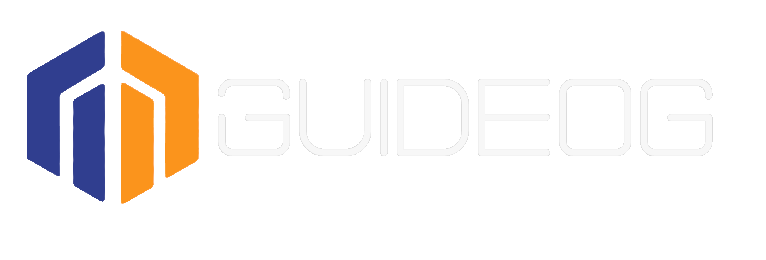
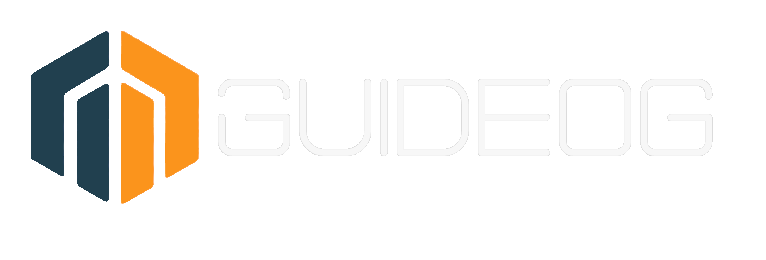
updated styling & code layout

Changed region(s): [[0.03, 0.1231, 0.1501, 0.7692]]

diff --git a/index.html b/index.html
@@ -35,10 +35,10 @@
 							<a href="#explore" class="nav-link" id="explore-btn">Explore</a>
 						</li>
 						<li class-"nav-item">
-							<a href="main.html" class="nav-link">FAQ</a>
+							<a href="#FAQ" class="nav-link">FAQ</a>
 						</li>
 						<li class-"nav-item">
-							<a href="#contact" class="nav-link">Contact</a>
+							<a href="main.html" class="nav-link">Main</a>
 						</li>
 						<li>
 							<button class="nav-link btn btn-sm btn-login text-large py-1 ml-4 mt-1 d-none d-sm-block text-white" data-toggle="modal" data-target="#loginModal">Log In</button>
@@ -85,7 +85,7 @@
 							<h1 class="display-4">Help others <strong>create</strong> comprehensive and in-depth <strong>guides</strong></h1>
 							<div class="d-flex">
 								<div class="p-4 mt-4 align-self-start">
-									<i class="fas fa-archive fa-2x"></i>	
+									<i class="fas fa-archive fa-2x text-orange"></i>	
 								</div>
 								<div class="p-4 mt-4 align-self-end">
 									Explore a vast repository of guides which have been found to be the most valuable for their subject, rated by a vast (at this point, actually, not so vast) userbase!	
@@ -93,7 +93,7 @@
 							</div>
 							<div class="d-flex">
 								<div class="p-4 align-self-start">
-									<i class="fas fa-comment fa-2x"></i>	
+									<i class="fas fa-comment fa-2x text-orange"></i>	
 								</div>
 								<div class="p-4 align-self-end">
 									Contribute to existing <a href="#" class="header-link">guides</a>, branch onto them with new <a href="#" class="header-link">steps</a>, and submit new additions to add your own knowledge of your most favorite subjects.	
@@ -101,7 +101,7 @@
 							</div>
 							<div class="d-flex">
 								<div class="p-4 align-self-start">
-									<i class="fas fa-heart fa-2x"></i>	
+									<i class="fas fa-heart fa-2x text-orange"></i>	
 								</div>
 								<div class="p-4 align-self-end">
 									Promote other user's content to help link together incredible guides in the best order possible.	
@@ -131,7 +131,7 @@
 						</div>
 					</div>
 					<div class="row">
-						<nav id="learn-btn" class="col text-center d-none d-sm-block">
+						<nav id="learn-btn" class="col text-center">
 							<a href="#explore" class="btn btn-block btn-outline-light nav-link">Learn More</a>
 						</nav>
 					</div>
@@ -139,13 +139,7 @@
 				
 				<!-- EXPLORE -->
 				<div class="container" id="explore">
-					<div class="row">
-						<div class="col-4 offset-4 text-center">
-							<h1 class="display-4">Explore</h1>
-						</div>
-					</div>
 				</div>
-			</div>
 		</header>
 
 		<script src="http://code.jquery.com/jquery-3.3.1.min.js" integrity="sha256-FgpCb/KJQlLNfOu91ta32o/NMZxltwRo8QtmkMRdAu8="

diff --git a/main.html b/main.html
@@ -5,21 +5,27 @@
 		<meta charset="UTF-8">
 		<meta name="viewport" content="width=device-width, initial-scale=1.0">
 		<meta http-equiv="X-UA-Compatible" content="ie=edge">
-
+		
 		<link rel="stylesheet" href="https://cdnjs.cloudflare.com/ajax/libs/font-awesome/6.2.1/css/all.min.css">
 		<link rel="stylesheet" href="https://stackpath.bootstrapcdn.com/bootstrap/4.1.1/css/bootstrap.min.css" integrity="sha384-WskhaSGFgHYWDcbwN70/dfYBj47jz9qbsMId/iRN3ewGhXQFZCSftd1LZCfmhktB"
 		crossorigin="anonymous">
-		<link rel="stylesheet" href="css/styles.css">
+		<link rel="stylesheet" href="css/main-styles.css">
 		<link rel="icon" href="imgs/guideog-l3-icon-alpha.png">
 
 		<title>Guideog</title>
 	</head>
 
-	<body class="bg-dark">
+	<body class="text-light">
+		
+
 		<script src="http://code.jquery.com/jquery-3.3.1.min.js" integrity="sha256-FgpCb/KJQlLNfOu91ta32o/NMZxltwRo8QtmkMRdAu8="
 			crossorigin="anonymous"></script>
 		<script src="https://cdnjs.cloudflare.com/ajax/libs/popper.js/1.14.3/umd/popper.min.js" integrity="sha384-ZMP7rVo3mIykV+2+9J3UJ46jBk0WLaUAdn689aCwoqbBJiSnjAK/l8WvCWPIPm49"
 			crossorigin="anonymous"></script>
 		<script src="https://stackpath.bootstrapcdn.com/bootstrap/4.1.1/js/bootstrap.min.js" integrity="sha384-smHYKdLADwkXOn1EmN1qk/HfnUcbVRZyYmZ4qpPea6sjB/pTJ0euyQp0Mk8ck+5T"
 			crossorigin="anonymous"></script>
+		<script src="js/app.js"></script>
+		<script src="js/scripts.js"></script>
 	</body>
+
+</html>

diff --git a/css/styles.css b/css/styles.css
@@ -1,9 +1,18 @@
 body {
 	color: #fff;
+	overflow-x: hidden;
+}
+
+@media (max-width:435px) {
+	body { 
+		overflow-x: visible;
+	}
 }
 
 .navbar {
-	background: rgba(0,0,0,0.65);
+	/* background: rgba(10,29,31,0.65); */
+	background: rgba(13,20,31,.8);
+
 	border-bottom: #915110 solid 1px;
 }
 
@@ -25,13 +34,17 @@ body {
 	top: 0;
 	left: 0;
 	width: 100%;
-	min-height:210%;
+	min-height:210vh;
 	background: rgba(0,0,0,1);
 	/* border-bottom: #915110 solid 1px; */
 }
 
 #home-section .home-inner {
 	padding-top: 170px;
+}
+
+.text-orange {
+	color: #d1671b;
 }
 
 .header-link {
@@ -48,7 +61,7 @@ body {
 }
 
 #home-section .card-form {
-	background: rgba(0,0,0,0.8);
+	background: rgba(13,20,31,0.8);
 	opacity: 90%;
 }
 
@@ -60,6 +73,16 @@ body {
 
 #learn-btn {
 	margin-top: 5rem;	
+}
+
+#learn-btn a {
+	background: rgba(13,20,31,0.8);
+}
+
+#learn-btn a:hover {
+	background: #f8f9fa;
+	color: #000;
+	opacity: 90%;
 }
 
 .btn-login {
@@ -81,6 +104,7 @@ body {
 	background: none;
 	border: none;
 	max-width: 420px;
+	min-width: 340px;
 }
 
 #loginModal .card {
@@ -126,18 +150,8 @@ body {
 
 #explore {
 	margin-top: 6rem;
-	min-width: 75vw;
-	padding: 5rem;
-	padding-top: 1rem;
-	background: rgba(0,0,0,0.7);
-	border-radius: 10px;
 }
 
-#explore .row {
-	border: 1px solid yellow;
+.explore-card {
+	max-width: 350px;
 }
-
-#explore .col-4 {
-	border: 1px solid blue;
-}
-

diff --git a/js/app.js b/js/app.js
@@ -2,13 +2,12 @@ const darkOverlay = document.querySelector('.dark-overlay');
 const mainNavA = document.querySelector('#main-nav a');
 
 const rate = 2.0;
-const bgColors = '0,0,0,';
 
-darkOverlay.style.background = `rgba(0,0,0,1)`;
+darkOverlay.style.background = `rgb(13,25,31)`;
 
 document.addEventListener('scroll', () => {
 	let alpha = 85 / window.scrollY*rate;
 	if (alpha >= 0) {
-		darkOverlay.style.background = `rgba(0,0,0,${alpha})`;
+		darkOverlay.style.background = `rgba(13,25,31,${alpha})`;
 	}
 });
